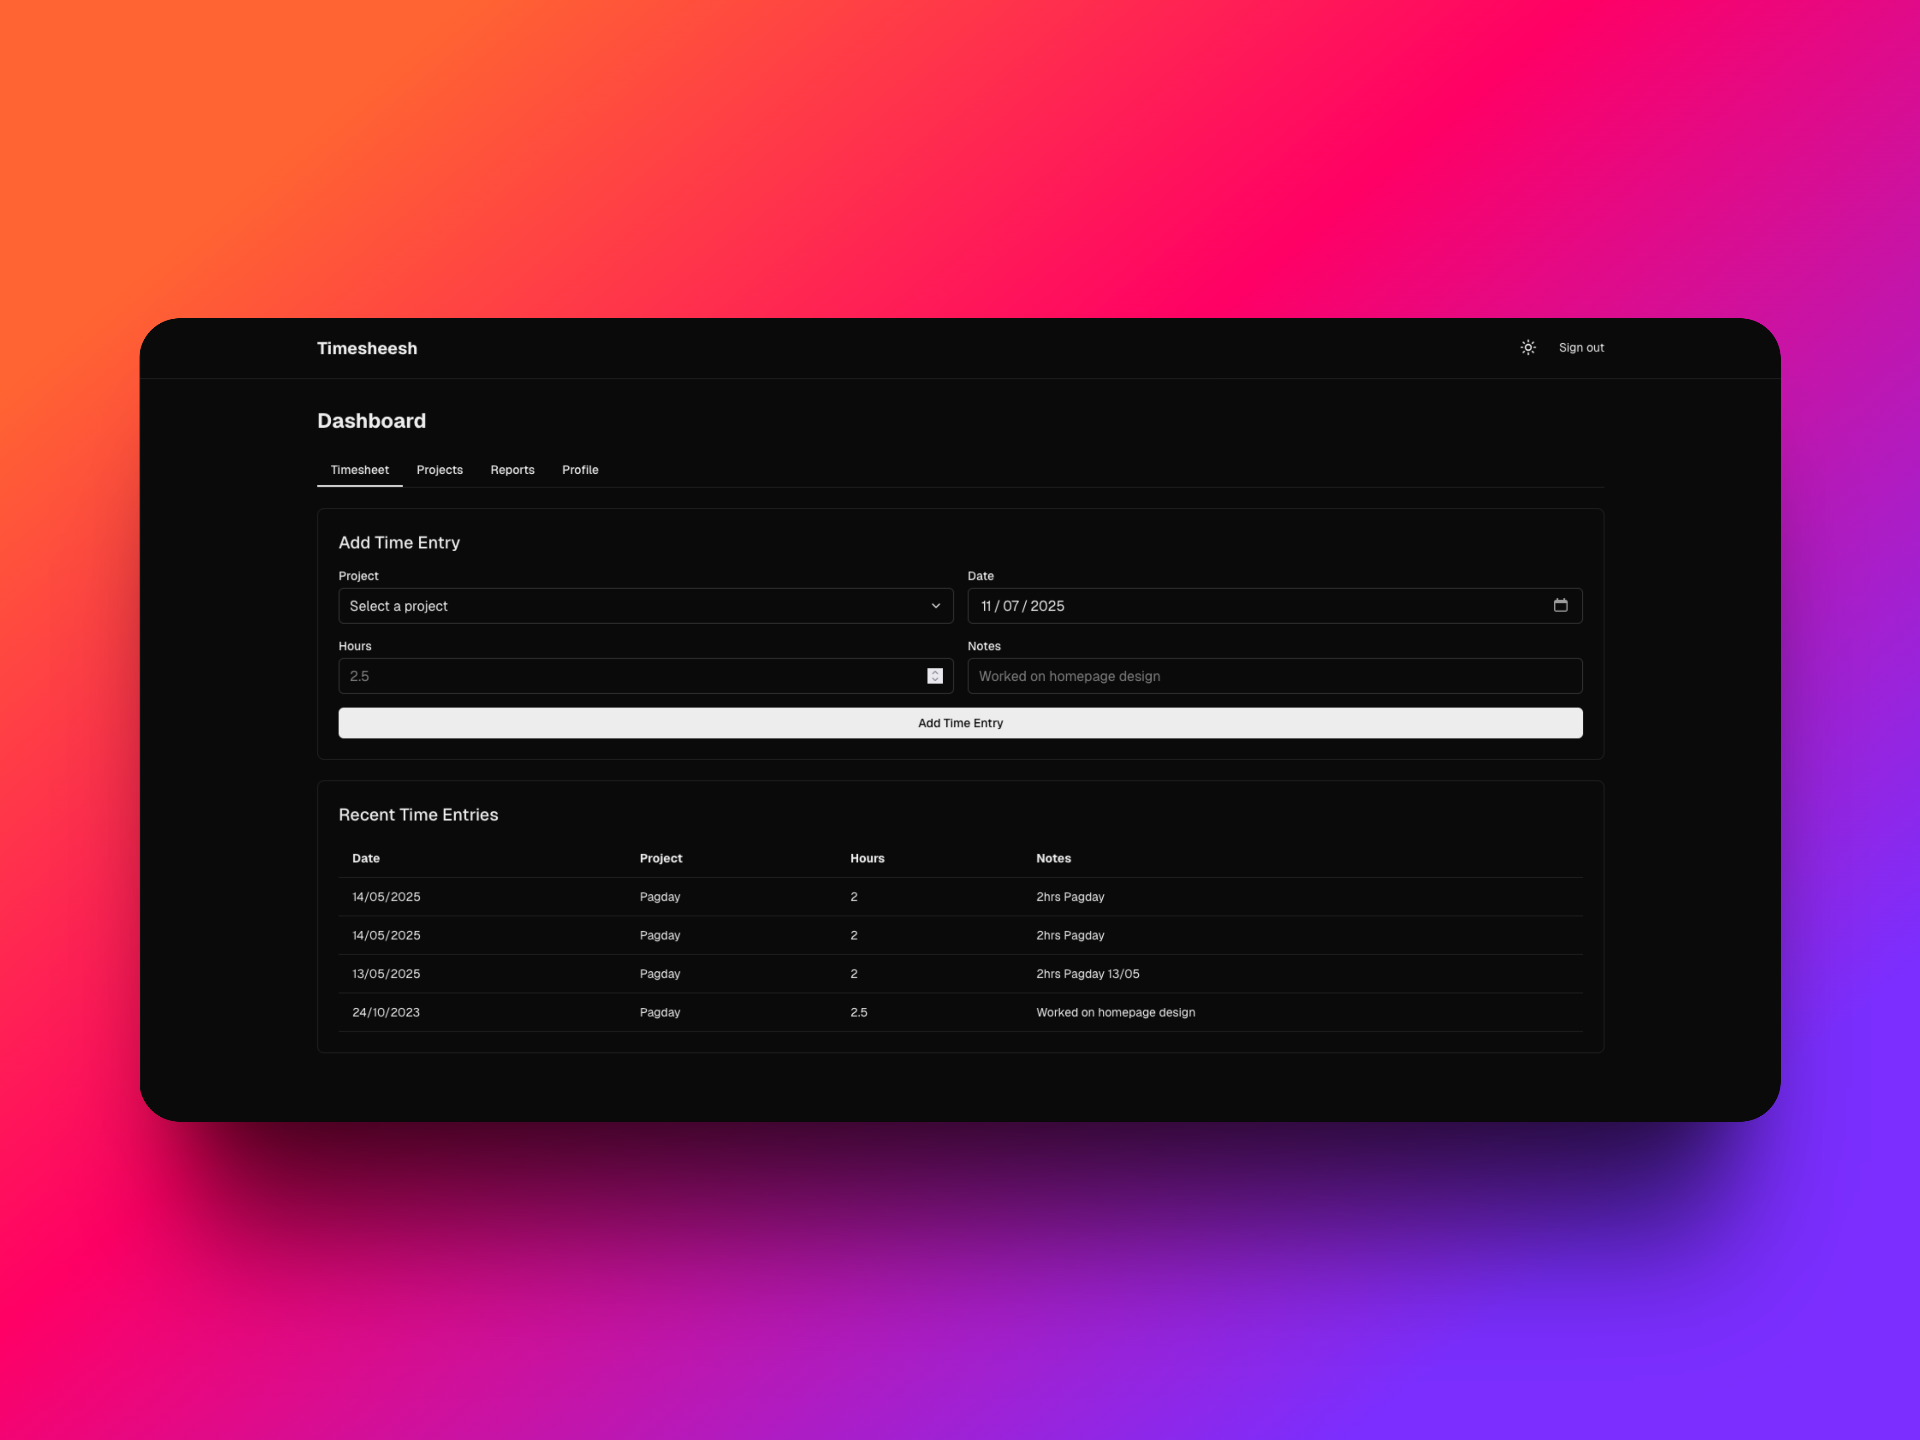
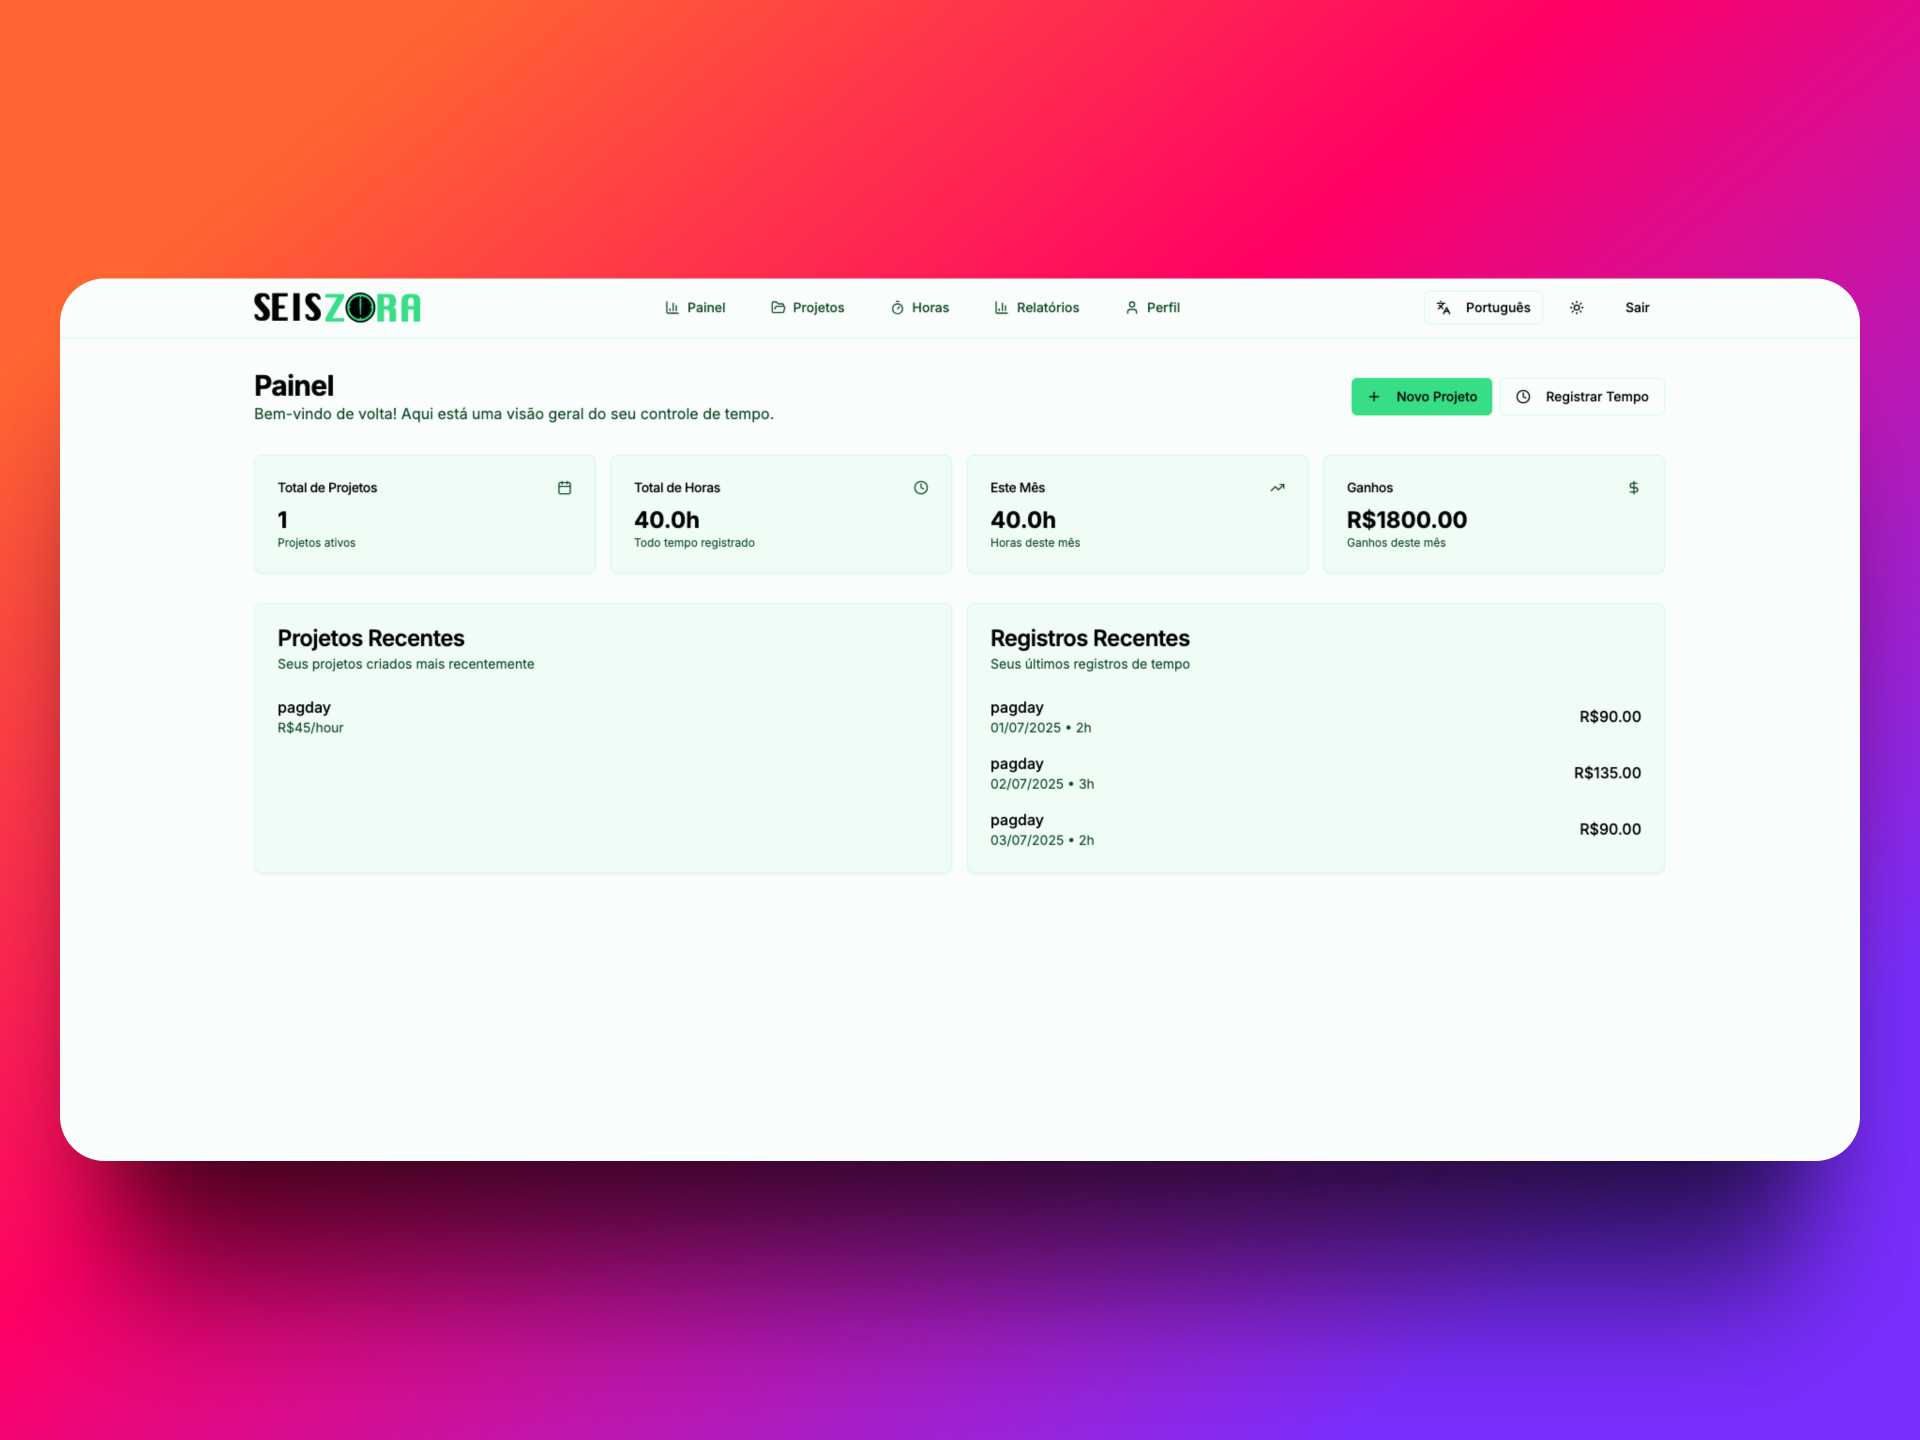
chore: update portfolio project details and replace timesheet image with new branding

diff --git a/src/data/portfolio.ts b/src/data/portfolio.ts
@@ -24,9 +24,9 @@ export const portfolioData: PortfolioData = {
     },
     {
       id: "2",
-      title: "Timesheesh - Time Tracking App",
+      title: "SeisZora - Time Tracking App",
       description:
-        "Time tracking and project management application with reporting features, authentication, and PDF delivery via WhatsApp. Built with a modern stack and modular architecture.",
+        "Time tracking and project management application with reporting features, authentication, and PDF delivery. Built with a modern stack and modular architecture.",
       technologies: [
         "React",
         "Next.js",
@@ -35,7 +35,7 @@ export const portfolioData: PortfolioData = {
         "Node.js",
         "SQLite",
       ],
-      demoUrl: "https://timesheesh-frontend.vercel.app/",
+      demoUrl: "https://seiszora.com.br/",
       featured: true,
       imageUrl: "/timesheet.png",
     },
